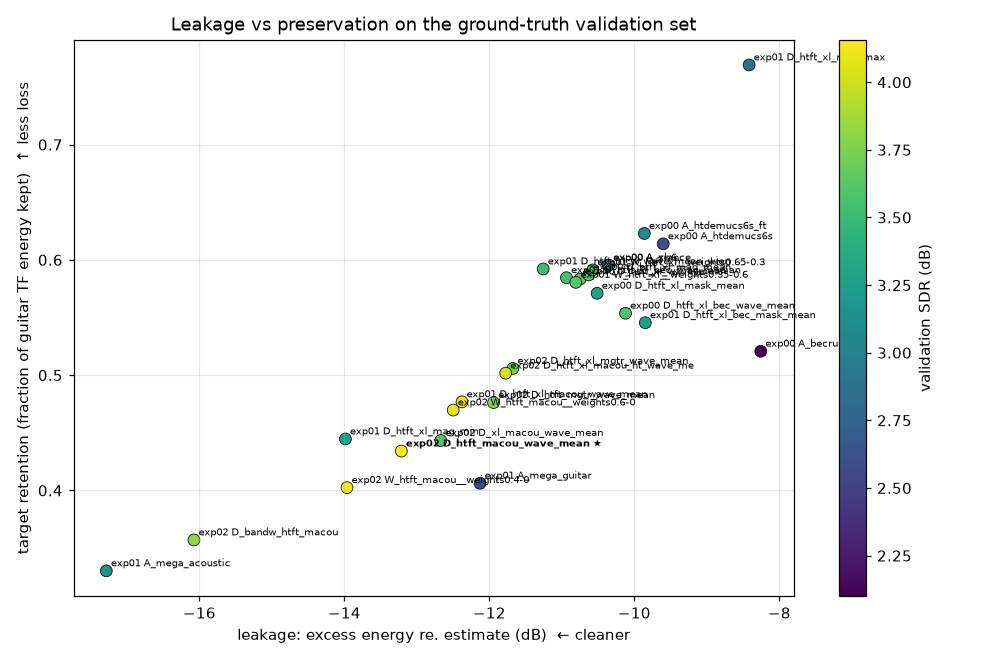
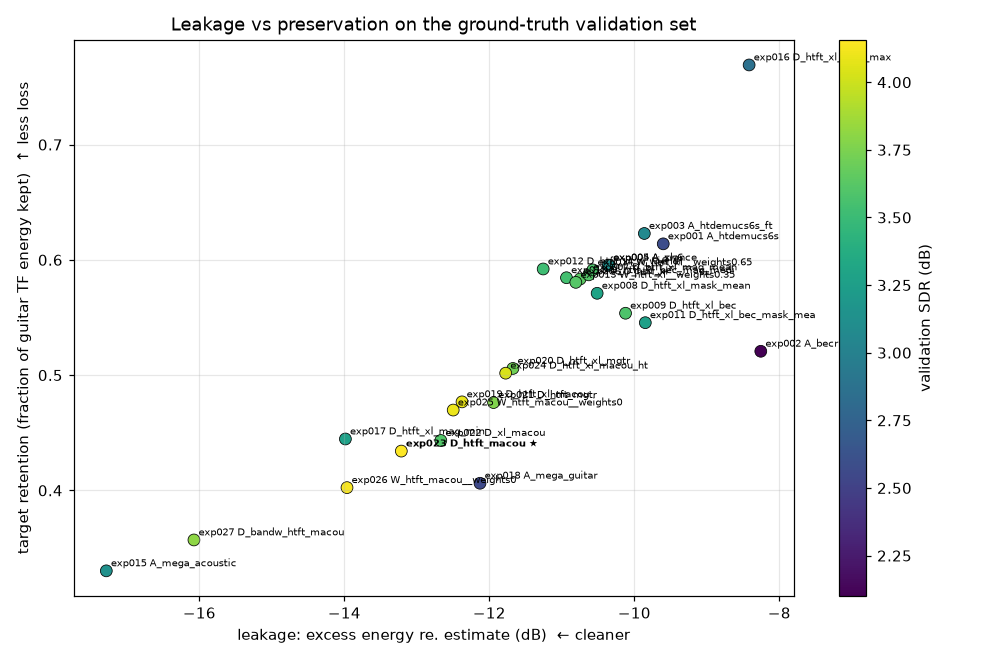
Tradeoff plot labels; frontier analysis
Claude-Session: https://claude.ai/code/session_01X55phpGwECSSpLVVDoCoYf

diff --git a/scripts/plot_tradeoff.py b/scripts/plot_tradeoff.py
@@ -32,7 +32,7 @@ def main() -> int:
     sc = ax.scatter(x, y, c=c, cmap="viridis", s=60, edgecolor="k", linewidth=0.5)
     champ = tracking.current_champion()
     for r, xi, yi in zip(rows, x, y):
-        lab = r["experiment"][:5] + " " + r["pipeline"][:26]
+        lab = r["experiment"][:6] + " " + r["pipeline"].replace("_wave_mean", "")[:22]
         bold = champ and champ["experiment"] == r["experiment"]
         ax.annotate(lab + (" ★" if bold else ""), (xi, yi), fontsize=6.5, xytext=(3, 3),
                     textcoords="offset points", weight="bold" if bold else "normal")

diff --git a/reports/analysis.md b/reports/analysis.md
@@ -120,3 +120,8 @@ model dominates: their failures are on different clips.
   the Champion's waveform mean (4.16). Design change → **gain refiner (r3)**: a 0..2 TF gain
   applied to the Champion ensemble's complex STFT (identity at init, so it starts at 4.16 dB),
   trained with the r1 hard-example weights.
+* `reports/tradeoff.png` (leakage vs retention, colour = SDR): all experiments lie on one
+  diagonal frontier from mag-max (−8.4 dB leak, 0.77 retention) to the Mega acoustic head
+  (−17.3 dB, 0.33); the best SDRs sit in the middle (−12…−13 dB leakage, 0.43–0.48 retention).
+  Moving *along* the frontier (gains, max/min, Wiener) does not help; the refiner's job is to
+  move the frontier itself.
